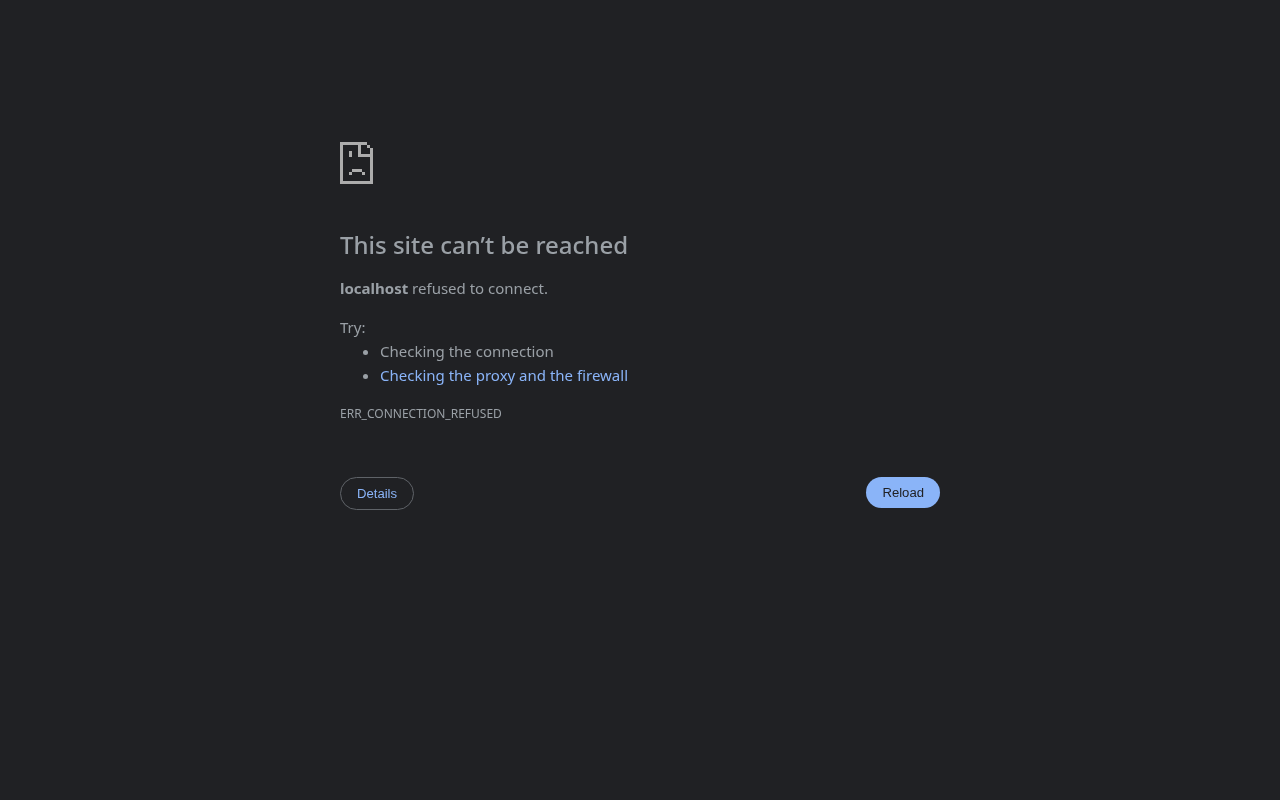
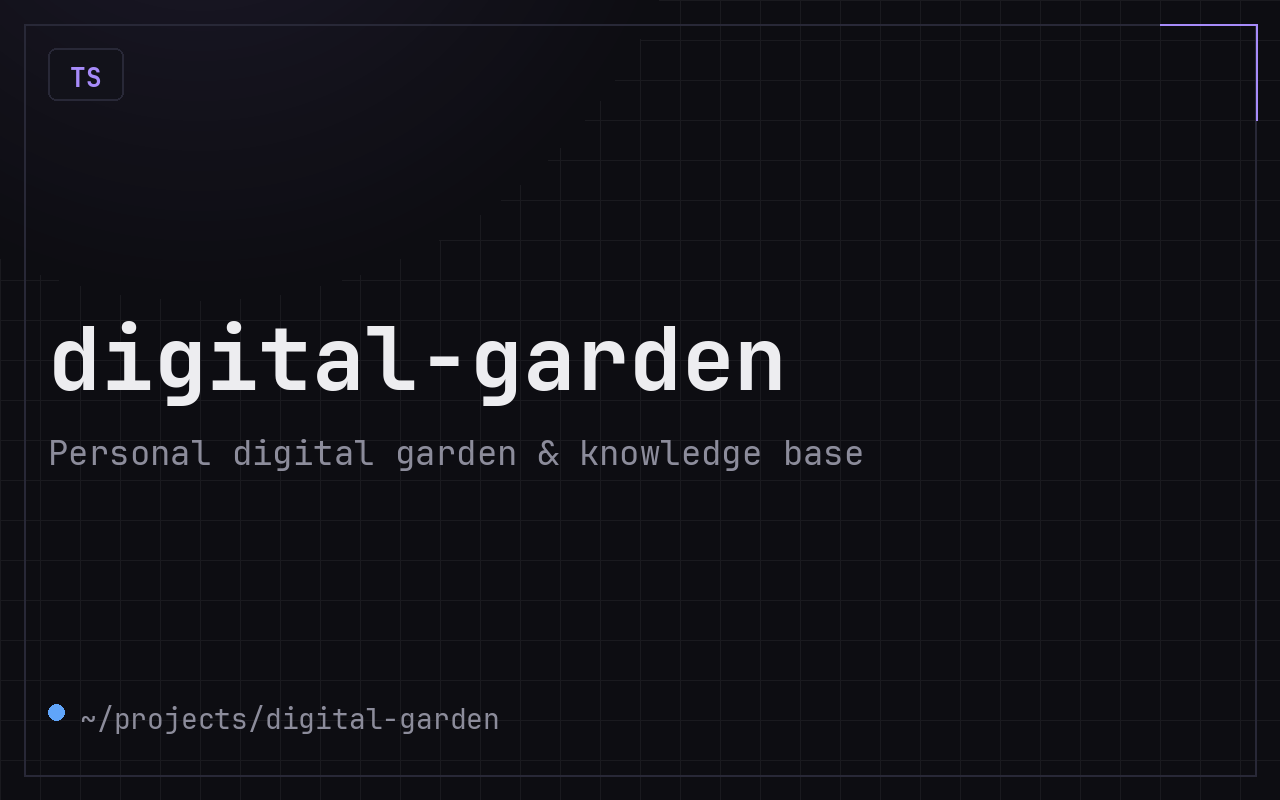
feat: add cover images for repos missing project media

diff --git a/scripts/gen_covers.py b/scripts/gen_covers.py
@@ -1,0 +1,84 @@
+#!/usr/bin/env python3
+"""Generate dark-themed project cover images matching site aesthetic."""
+from PIL import Image, ImageDraw, ImageFont
+import os
+
+OUT = os.path.expanduser("~/Projects/nichsedge.github.io/public/media/projects")
+os.makedirs(OUT, exist_ok=True)
+
+W, H = 1280, 800
+BG = (13, 13, 18)
+BG2 = (18, 18, 26)
+ACCENT = (167, 139, 250)      # purple-400
+ACCENT_DIM = (167, 139, 250, 40)
+BORDER = (40, 40, 55)
+TEXT0 = (237, 237, 240)
+TEXT3 = (140, 140, 155)
+GREEN = (52, 211, 153)
+
+FONT_DIR = "/usr/share/fonts/truetype/jetbrains-mono"
+def font(size, bold=False):
+    for cand in [
+        "/usr/share/fonts/nerd-fonts/JetBrainsMono/JetBrainsMonoNerdFont-Bold.ttf" if bold else "/usr/share/fonts/nerd-fonts/JetBrainsMono/JetBrainsMonoNerdFont-Regular.ttf",
+        "/usr/share/fonts/jetbrains-mono-fonts/JetBrainsMono-Bold.ttf" if bold else "/usr/share/fonts/jetbrains-mono-fonts/JetBrainsMono-Regular.ttf",
+    ]:
+        if os.path.exists(cand):
+            return ImageFont.truetype(cand, size)
+    return ImageFont.load_default()
+
+def grid_layer(draw, alpha=14):
+    for x in range(0, W, 40):
+        draw.line([(x, 0), (x, H)], fill=(255, 255, 255, alpha), width=1)
+    for y in range(0, H, 40):
+        draw.line([(0, y), (W, y)], fill=(255, 255, 255, alpha), width=1)
+
+def base(name, subtitle, tag, lang_color=ACCENT):
+    img = Image.new("RGB", (W, H), BG)
+    ov = Image.new("RGBA", (W, H), (0, 0, 0, 0))
+    d = ImageDraw.Draw(ov)
+    grid_layer(d)
+    # radial-ish glow top-left
+    for r in range(500, 0, -10):
+        a = int(28 * (1 - r / 500))
+        d.ellipse([200 - r, -200 - r, 200 + r, -200 + r], fill=(ACCENT[0], ACCENT[1], ACCENT[2], a))
+    img = Image.alpha_composite(img.convert("RGBA"), ov)
+    d = ImageDraw.Draw(img)
+    # border frame
+    d.rectangle([24, 24, W - 24, H - 24], outline=BORDER, width=2)
+    # top decorative corner lines
+    d.line([(W - 24 - 96, 24), (W - 24, 24)], fill=ACCENT, width=2)
+    d.line([(W - 24, 24), (W - 24, 24 + 96)], fill=ACCENT, width=2)
+    # tag chip top-left
+    f_tag = font(26, bold=True)
+    tw = d.textlength(tag, font=f_tag)
+    d.rounded_rectangle([48, 48, 48 + tw + 44, 100], radius=8, outline=BORDER, width=2, fill=BG2)
+    d.text((70, 60), tag, font=f_tag, fill=ACCENT)
+    # title
+    d.text((48, 300), name, font=font(88, bold=True), fill=TEXT0)
+    # subtitle
+    d.text((48, 430), subtitle, font=font(34), fill=TEXT3)
+    # bottom bar: dot + lang + fake path
+    d.ellipse([48, H - 96, 64, H - 80], fill=lang_color)
+    d.text((80, H - 100), "~/projects/" + name.lower(), font=font(28), fill=TEXT3)
+    return img
+
+PROJECTS = [
+    ("ksei", "Unofficial MCP server for AKSes KSEI portfolio", "PY", ACCENT),
+    ("debank-scraper", "Async EVM wallet & DeFi position scraper", "PY", ACCENT),
+    ("indoscraping", "Unified web scraper suite & visual CLI dashboard", "PY", ACCENT),
+    ("deepfocus", "Neon-glow Pomodoro & focus timer for Android", "KT", (240, 171, 252)),
+    ("hydrotrack", "Lightweight water intake tracker for Android", "KT", (240, 171, 252)),
+    ("yt-summarizer", "YouTube video summarizer to markdown", "PY", ACCENT),
+    ("ngantriwoy", "Smart real-time queue system for Indonesian UMKM", "TS", (96, 165, 250)),
+    ("jira-clone", "ProFlow Tickets: AI-powered Jira clone", "TS", (96, 165, 250)),
+    ("bijak-beli", "Shop with purpose — conscious consumer app", "TS", (96, 165, 250)),
+    ("digital-garden", "Personal digital garden & knowledge base", "TS", (96, 165, 250)),
+    ("nutrijoy", None, None, None),  # skip, already has
+]
+
+for name, subtitle, tag, color in PROJECTS:
+    if subtitle is None:
+        continue
+    img = base(name, subtitle, tag, color)
+    img.convert("RGB").save(os.path.join(OUT, f"{name}.png"), optimize=True)
+    print("saved", name)
